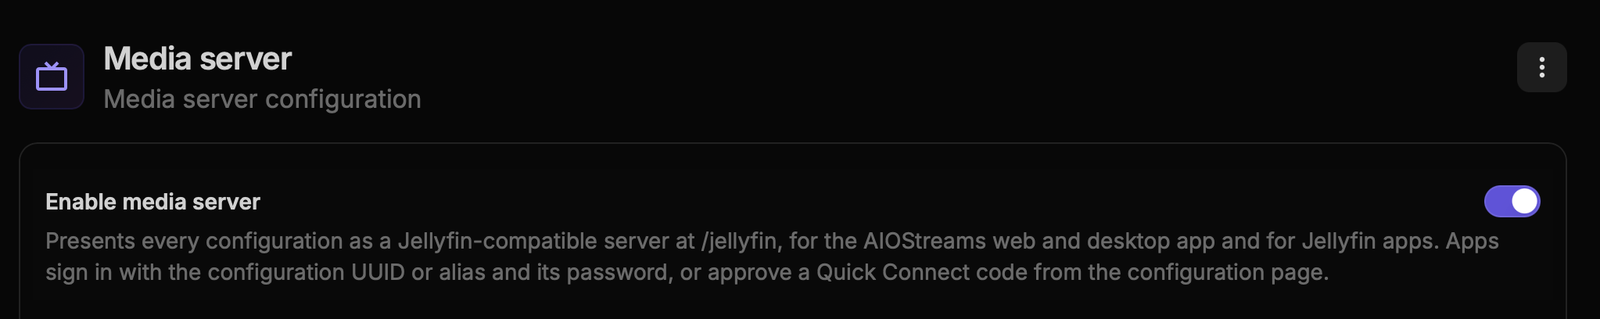
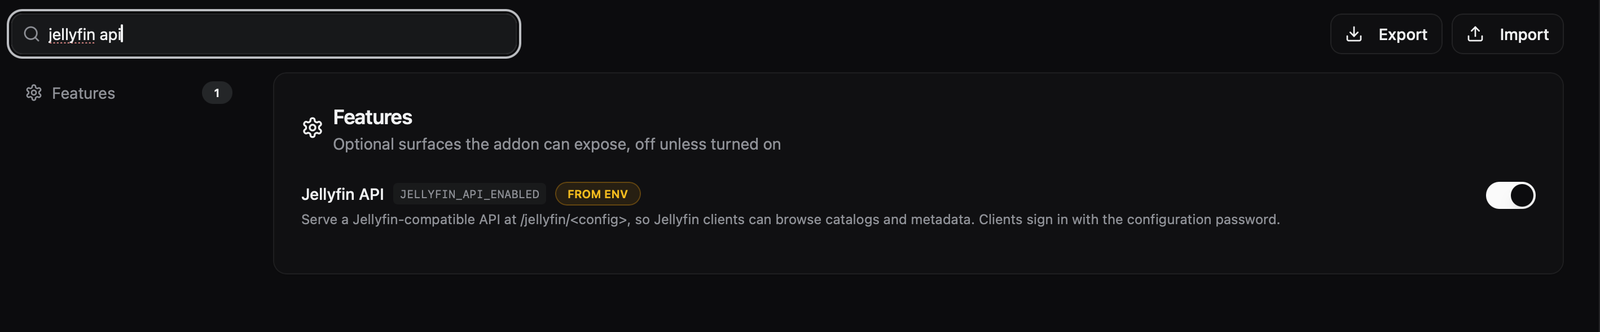
Update Jellyfin API step and screenshot

diff --git a/index.html b/index.html
@@ -155,7 +155,7 @@
       <li class="group">Steps</li>
       <li class="route-badge" id="route-badge">Showing: <b>both routes</b></li>
       <li><a href="#step-aiostreams"><span data-num="step-aiostreams"></span>. AIOStreams link</a></li>
-      <li data-route="b"><a href="#step-api"><span data-num="step-api"></span>. Enable media server</a></li>
+      <li data-route="b"><a href="#step-api"><span data-num="step-api"></span>. Enable Jellyfin API</a></li>
       <li><a href="#step-aiometadata"><span data-num="step-aiometadata"></span>. Set up AIOMetadata</a></li>
       <li><a href="#step-playback"><span data-num="step-playback"></span>. Paste playback link</a></li>
       <li><a href="#step-user"><span data-num="step-user"></span>. Create a user</a></li>
@@ -224,9 +224,9 @@
       </div>
 
       <div class="step" id="step-api" data-route="b">
-        <div class="step-head"><span class="num"></span><h3>Enable the media server</h3><span class="only">Selfhosted only</span></div>
-        <p>Check if the Jellyfin feature is enabled on your instance. Go to <code>aiometadata.yourdomain.xyz/dashboard</code>, open <b>Settings</b>, search for "media server" and turn on <b>Enable media server</b>.</p>
-        <figure class="shot"><img src="images/jellyfin-api-setting.png" alt="The Enable media server option in the AIOMetadata dashboard settings" onerror="this.closest('figure').remove()"><figcaption>The Enable media server option in the AIOMetadata dashboard settings</figcaption></figure>
+        <div class="step-head"><span class="num"></span><h3>Enable the Jellyfin API</h3><span class="only">Selfhosted only</span></div>
+        <p>Enable the Jellyfin API in your AIOMetadata dashboard. Go to <code>aiometadata.yourdomain.xyz/dashboard</code>, open <b>Settings</b>, search for "jellyfin api" and turn on <b>Jellyfin API</b>.</p>
+        <figure class="shot"><img src="images/jellyfin-api-setting.png" alt="The Jellyfin API option in the AIOMetadata dashboard settings" onerror="this.closest('figure').remove()"><figcaption>The Jellyfin API option in the AIOMetadata dashboard settings</figcaption></figure>
         <p class="only-both" style="color:var(--muted);font-size:.92rem">Using a public instance? Those already have this enabled, so skip this step.</p>
       </div>
 
